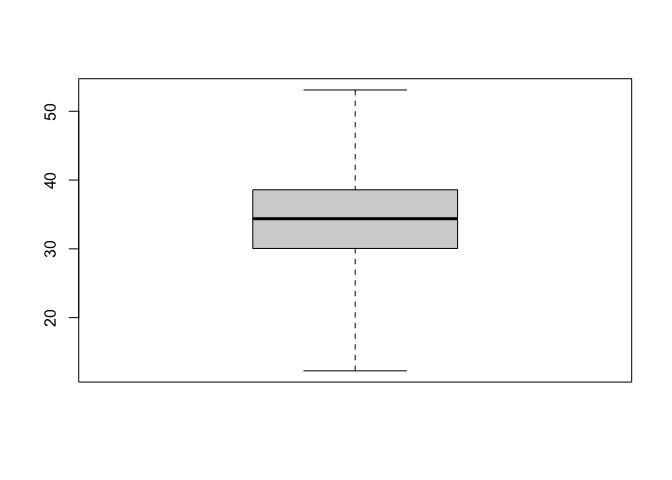
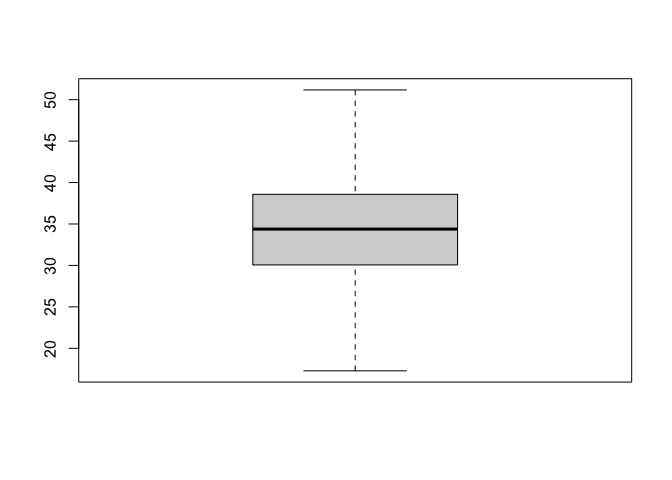
correct problem 3 v

diff --git a/assignments/assignment_01.md b/assignments/assignment_01.md
@@ -213,7 +213,7 @@ var(scale(pizza$time))[1]
 ### v.
 
 ``` r
-boxplot(pizza$time,range=0)
+boxplot(pizza$time,outline=FALSE)
 ```
 
 ![](assignment_01_files/figure-markdown_github/unnamed-chunk-12-1.png)
